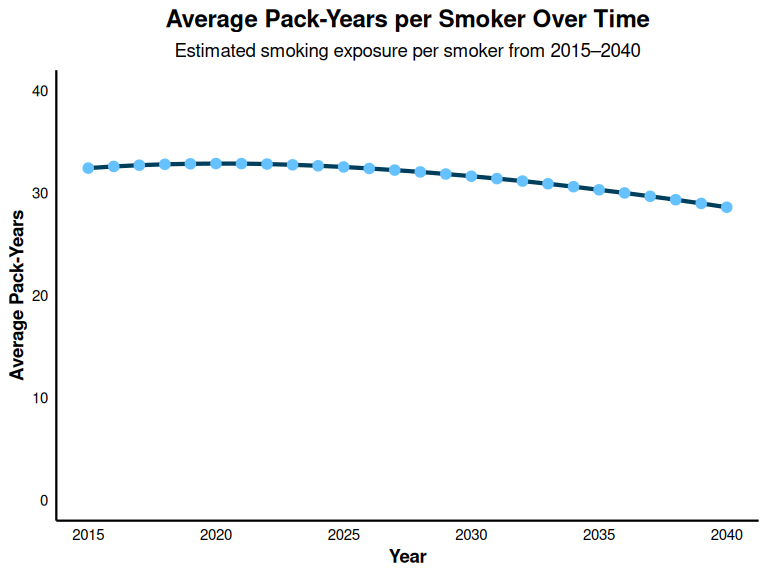
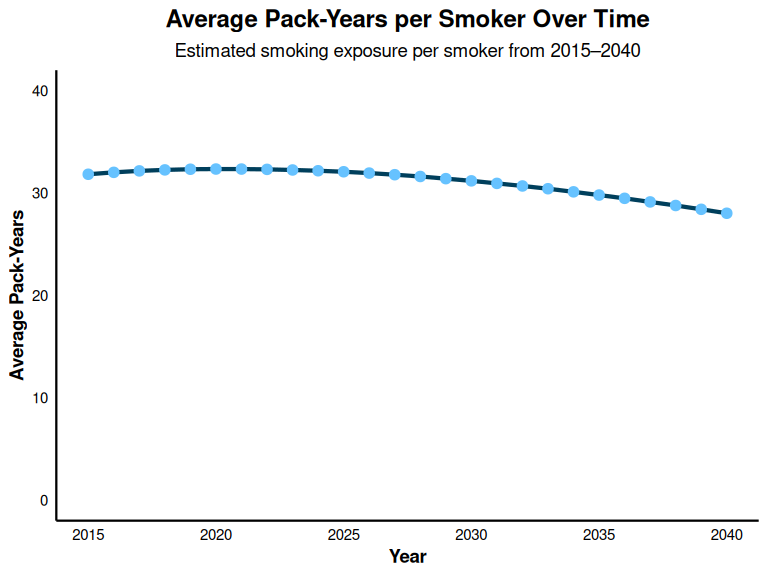
Revised to include calibration target for 2023 and also include AAPC

Changed region(s): [[0.0938, 0.25, 0.9688, 0.375]]

diff --git a/vignettes/Calibrate_Smoking.md b/vignettes/Calibrate_Smoking.md
@@ -7,15 +7,50 @@ This document outlines the steps taken to calibrate the model to align
 with U.S.-based validation targets for smoking behavior using a 25 year
 time horizon.
 
-Validation Target: Smoking Rates: Summary Health Statistics, National
-Health Interview Survey (NHIS), 2018
+To validate the model, we used smoking behaviour data points from two
+time periods (2018 and 2023) from the U.S. National Health Interview
+Survey
 
-This section outlines the steps taken to calibrate smoking behavior and
-COPD prevalence in the model to align with U.S.-based validation
-targets.
+Data from the 2018 U.S. National Health Interview Survey Table A-12b 
+(https://archive.cdc.gov/www_cdc_gov/nchs/nhis/shs/tables.htm) 
+was used to calculate the proportion of current, former, and non-smokers
+among adults aged 45 and over. We summed the population counts for age
+groups 45–64, 65–74, and 75+ to obtain the total (n=134,448), with 13.2%
+identified as current smokers (n=17,797), 29.3% as former smokers
+(n=39,351), and 57.2% as non-smokers (n=76,873). While EPIC models
+individuals aged 40 and older, data were not available in 40+ groupings;
+thus, using 45 and over was considered an appropriate validation target.
 
-Smoking Behavior Validation Targets (NHIS 2018): Current smokers: 13.8%
-Former smokers: 20.9% Never smokers: 65.3%
+To estimate the number and proportion of current exclusive cigarette
+smokers among U.S. adults aged 45 and over in 2023, we used a MMWR
+report using National Health Interview Survey data (DOI:
+10.15585/mmwr.mm7407a3). The estimated number of smokers in 2023 was
+8.77 million for adults aged 45–64 and 4.20 million for those aged 65
+and older. Using the reported smoking prevalence for each group—11.2%
+for ages 45–64 and 7.5% for ages 65+—we back-calculated the population
+denominators by dividing the number of smokers by their respective
+prevalence estimates. This yielded an estimated population of 78.3
+million adults aged 45–64 and 56.0 million aged 65+, resulting in a
+combined total of 134.3 million U.S. adults aged 45 and over. Similar to
+previously, due to the absence of data in the 40+ grouping, the
+estimated prevalence of cigarette smoking in ages 40 and older was
+assumed to be 9.7% (12.97 million of 134.3 million).
+
+To estimate the average annual percent change (AAPC) in exclusive
+cigarette smoking among U.S. adults aged 45 and over from 2017 to 2023,
+we used data reported in the 2025 MMWR (Vol. 74, No. 7). In 2017, the
+estimated number of exclusive cigarette smokers was 11.0 million for
+adults aged 45–64 and 3.57 million for those aged 65 and older, totaling
+14.57 million. By 2023, these figures declined to 8.77 million and 4.20
+million, respectively, yielding a combined total of 12.97 million
+smokers aged 45 and over. Using these totals, we calculated the AAPC
+over the 6-year period with the formula: AAPC = ((Value 2023 / Value
+2017) ^ (1/6)) - 1. This results in an approximate AAPC of −1.9% per
+year.
+
+In summary the following validation targets were used: Current smokers
+(2018): 13.2% Former smokers (2018): 29.3% Never smokers (2018): 57.5%
+Current smokers (2023): 9.7% AAPC: -1.9% per year
 
 ### Step 1: Load libraries and setup
 
@@ -52,17 +87,41 @@ EPIC’s existing calibration function (from EPIC Canada) accurately
 matched the overall smoking rates from the 2018 Summary Health
 Statistics: National Health Interview Survey (NHIS), however, it
 underestimated the proportions of never and former smokers. To address
-this, we modified the intercept in the logistic regression equation that
-determines the probability of being a never smoker. Increasing the
-intercept to 4.85 improved alignment with the target distribution by
-increasing the proportion of former smokers.
+this, we modified intercepts in the logistic regression equation that
+determines the probability of being a never smoker and the probability
+of being a smoker at time of creation.
 
 ``` r
 # Modify smoking rates
-input$values$smoking$logit_p_never_smoker_con_not_current_0_betas<-t(as.matrix(c(intercept = 4.85, sex = 0, age = -0.06, age2 = 0,sex_age = 0,sex_age2 = 0, year = -0.02)))
+input$values$smoking$logit_p_never_smoker_con_not_current_0_betas<-t(as.matrix(c(intercept = 4.35, sex = 0, age = -0.06, age2 = 0,sex_age = 0,sex_age2 = 0, year = -0.02)))
+input$values$smoking$logit_p_current_smoker_0_betas <- t(as.matrix(c(Intercept = -0.05, sex = -1, age = -0.02, age2 = 0, sex_age = 0, sex_age2 = 0, year = -0.02)))  #intercept -1.8 when age = -0.02
 ```
 
-### Step 3: Modify intercept value to calibrate number of pack-years smoked in current and former smokers
+### Step 3: Modify rate of annual rate of decline in proportion of current smokers
+
+To align the model with validation targets for the proportion of current
+smokers in 2018 and 2023, the intercept of the log-hazard function for
+smoking cessation was adjusted to modify the rate of decline in smoking
+prevalence.
+
+``` r
+# Modify rate of decline
+input$values$smoking$ln_h_ces_betas <- c(intercept = -3.35,  sex = 0, age = 0.02, age2 = 0, calendar_time = -0.01, diagnosis = log(1.38))
+```
+
+### Step 4: Lower minimum prevalence of smoking
+
+The U.S. Healthy People initiative aims to reduce adult smoking
+prevalence to 5%. To reflect this national policy goal and ensure face
+validity of long-term projections, the minimum threshold for smoking
+prevalence in the model was adjusted to 5%.
+
+``` r
+# Modify lower bound prevalence of current smokers
+input$values$smoking$minimum_smoking_prevalence <- 0.05
+```
+
+### Step 5: Modify intercept value to calibrate number of pack-years smoked in current and former smokers
 
 EPIC’s existing calibration function (from EPIC Canada) underpredicted
 the pack-years of adults who ever smoked to that reported in the
@@ -80,7 +139,7 @@ intercept to 30 improved alignment with to data from PATH.
 input$values$smoking$pack_years_0_betas <- t(as.matrix(c(intercept = 30, sex = -4, age = 0, year = -0.6, current_smoker = 10)))
 ```
 
-### Step 4: Modify mortality ratios for age groups
+### Step 6: Modify mortality ratios for age groups
 
 The mortality rates currently used in EPIC Canada did not include
 mortality ratios for individuals under the age of 60. More recent data
@@ -100,7 +159,7 @@ input$values$smoking$mortality_factor_current <- t(as.matrix(c(age40to49 = 2.33,
 input$values$smoking$mortality_factor_former <- t(as.matrix(c(age40to49 = 1.31, age50to59 = 1.85, age60to69 = 1.91, age70to79 = 1.91, age80p = 1.27)))
 ```
 
-### Step 5: Run EPIC
+### Step 7: Run EPIC
 
 ``` r
 run(input = input$values)
@@ -117,7 +176,7 @@ terminate_session()
 
     ## [1] 0
 
-### Step 6: Create data tables
+### Step 8: Create data tables
 
 ``` r
 #Calculate smoking proportions
@@ -142,36 +201,36 @@ kable(
 
 | Year | Never Smoker | Current Smoker | Former Smoker |
 |-----:|-------------:|---------------:|--------------:|
-| 2015 |        0.639 |          0.152 |         0.209 |
-| 2016 |        0.646 |          0.141 |         0.213 |
-| 2017 |        0.652 |          0.133 |         0.215 |
-| 2018 |        0.658 |          0.126 |         0.216 |
-| 2019 |        0.663 |          0.120 |         0.216 |
-| 2020 |        0.668 |          0.116 |         0.216 |
-| 2021 |        0.673 |          0.111 |         0.216 |
-| 2022 |        0.677 |          0.108 |         0.215 |
-| 2023 |        0.681 |          0.104 |         0.214 |
-| 2024 |        0.685 |          0.101 |         0.213 |
-| 2025 |        0.689 |          0.099 |         0.212 |
-| 2026 |        0.692 |          0.097 |         0.211 |
-| 2027 |        0.696 |          0.095 |         0.210 |
-| 2028 |        0.698 |          0.093 |         0.208 |
-| 2029 |        0.701 |          0.092 |         0.207 |
-| 2030 |        0.704 |          0.090 |         0.206 |
-| 2031 |        0.706 |          0.089 |         0.205 |
-| 2032 |        0.708 |          0.088 |         0.204 |
-| 2033 |        0.710 |          0.087 |         0.203 |
-| 2034 |        0.712 |          0.086 |         0.202 |
-| 2035 |        0.713 |          0.085 |         0.201 |
-| 2036 |        0.715 |          0.085 |         0.200 |
-| 2037 |        0.717 |          0.084 |         0.199 |
-| 2038 |        0.718 |          0.083 |         0.199 |
-| 2039 |        0.719 |          0.083 |         0.198 |
-| 2040 |        0.720 |          0.082 |         0.197 |
+| 2015 |        0.554 |          0.162 |         0.284 |
+| 2016 |        0.562 |          0.147 |         0.292 |
+| 2017 |        0.570 |          0.135 |         0.295 |
+| 2018 |        0.577 |          0.125 |         0.298 |
+| 2019 |        0.584 |          0.118 |         0.299 |
+| 2020 |        0.590 |          0.111 |         0.299 |
+| 2021 |        0.596 |          0.105 |         0.299 |
+| 2022 |        0.602 |          0.101 |         0.298 |
+| 2023 |        0.607 |          0.097 |         0.296 |
+| 2024 |        0.612 |          0.094 |         0.294 |
+| 2025 |        0.617 |          0.091 |         0.292 |
+| 2026 |        0.622 |          0.088 |         0.290 |
+| 2027 |        0.626 |          0.086 |         0.288 |
+| 2028 |        0.630 |          0.084 |         0.286 |
+| 2029 |        0.633 |          0.083 |         0.284 |
+| 2030 |        0.637 |          0.081 |         0.282 |
+| 2031 |        0.640 |          0.080 |         0.280 |
+| 2032 |        0.643 |          0.079 |         0.278 |
+| 2033 |        0.646 |          0.078 |         0.276 |
+| 2034 |        0.649 |          0.076 |         0.275 |
+| 2035 |        0.651 |          0.076 |         0.273 |
+| 2036 |        0.654 |          0.075 |         0.272 |
+| 2037 |        0.656 |          0.074 |         0.270 |
+| 2038 |        0.658 |          0.073 |         0.269 |
+| 2039 |        0.660 |          0.073 |         0.268 |
+| 2040 |        0.661 |          0.072 |         0.267 |
 
 Proportion of Smoking Status Over Time
 
-### Step 7: Visualize data
+### Step 9: Visualize data
 
 ``` r
 # Reshape data for plotting
@@ -220,7 +279,7 @@ ggplot(smokingstatus_reshaped, aes(x = Year, y = Proportion, color = Status)) +
 
 ![](./Figures/smokingstatus.png)
 
-### Step 8: Observe trend in pack years per person
+### Step 10: Observe trend in pack years per person
 
 This figure serves to assess the face validity of the simulated
 trajectory of average pack-years per smoker over time. Due to the
@@ -228,7 +287,7 @@ absence of nationally representative longitudinal data on cumulative
 smoking exposure (pack-years) in the United States, we rely on trends in
 smoking intensity to estimate impact on pack-years.
 
-Evidence from Cornelius et al. (2022) published in the CDC’s Morbidity
+Evidence from Cornelius et al. 2022 published in the CDC’s Morbidity
 and Mortality Weekly Report (DOI: 10.15585/mmwr.mm7111a1) highlights a
 sustained decline in cigarette consumption among daily smokers between
 2005 and 2020. During this period:
@@ -275,7 +334,7 @@ pack_year_per_person <- data.frame(
 #
 ```
 
-### Step 9: Visualize trend in pack years per person
+### Step 11: Visualize trend in pack years per person
 
 ``` r
 ggplot(pack_year_per_person, aes(x = Year, y = AvgPackYearsPerSmoker)) +
